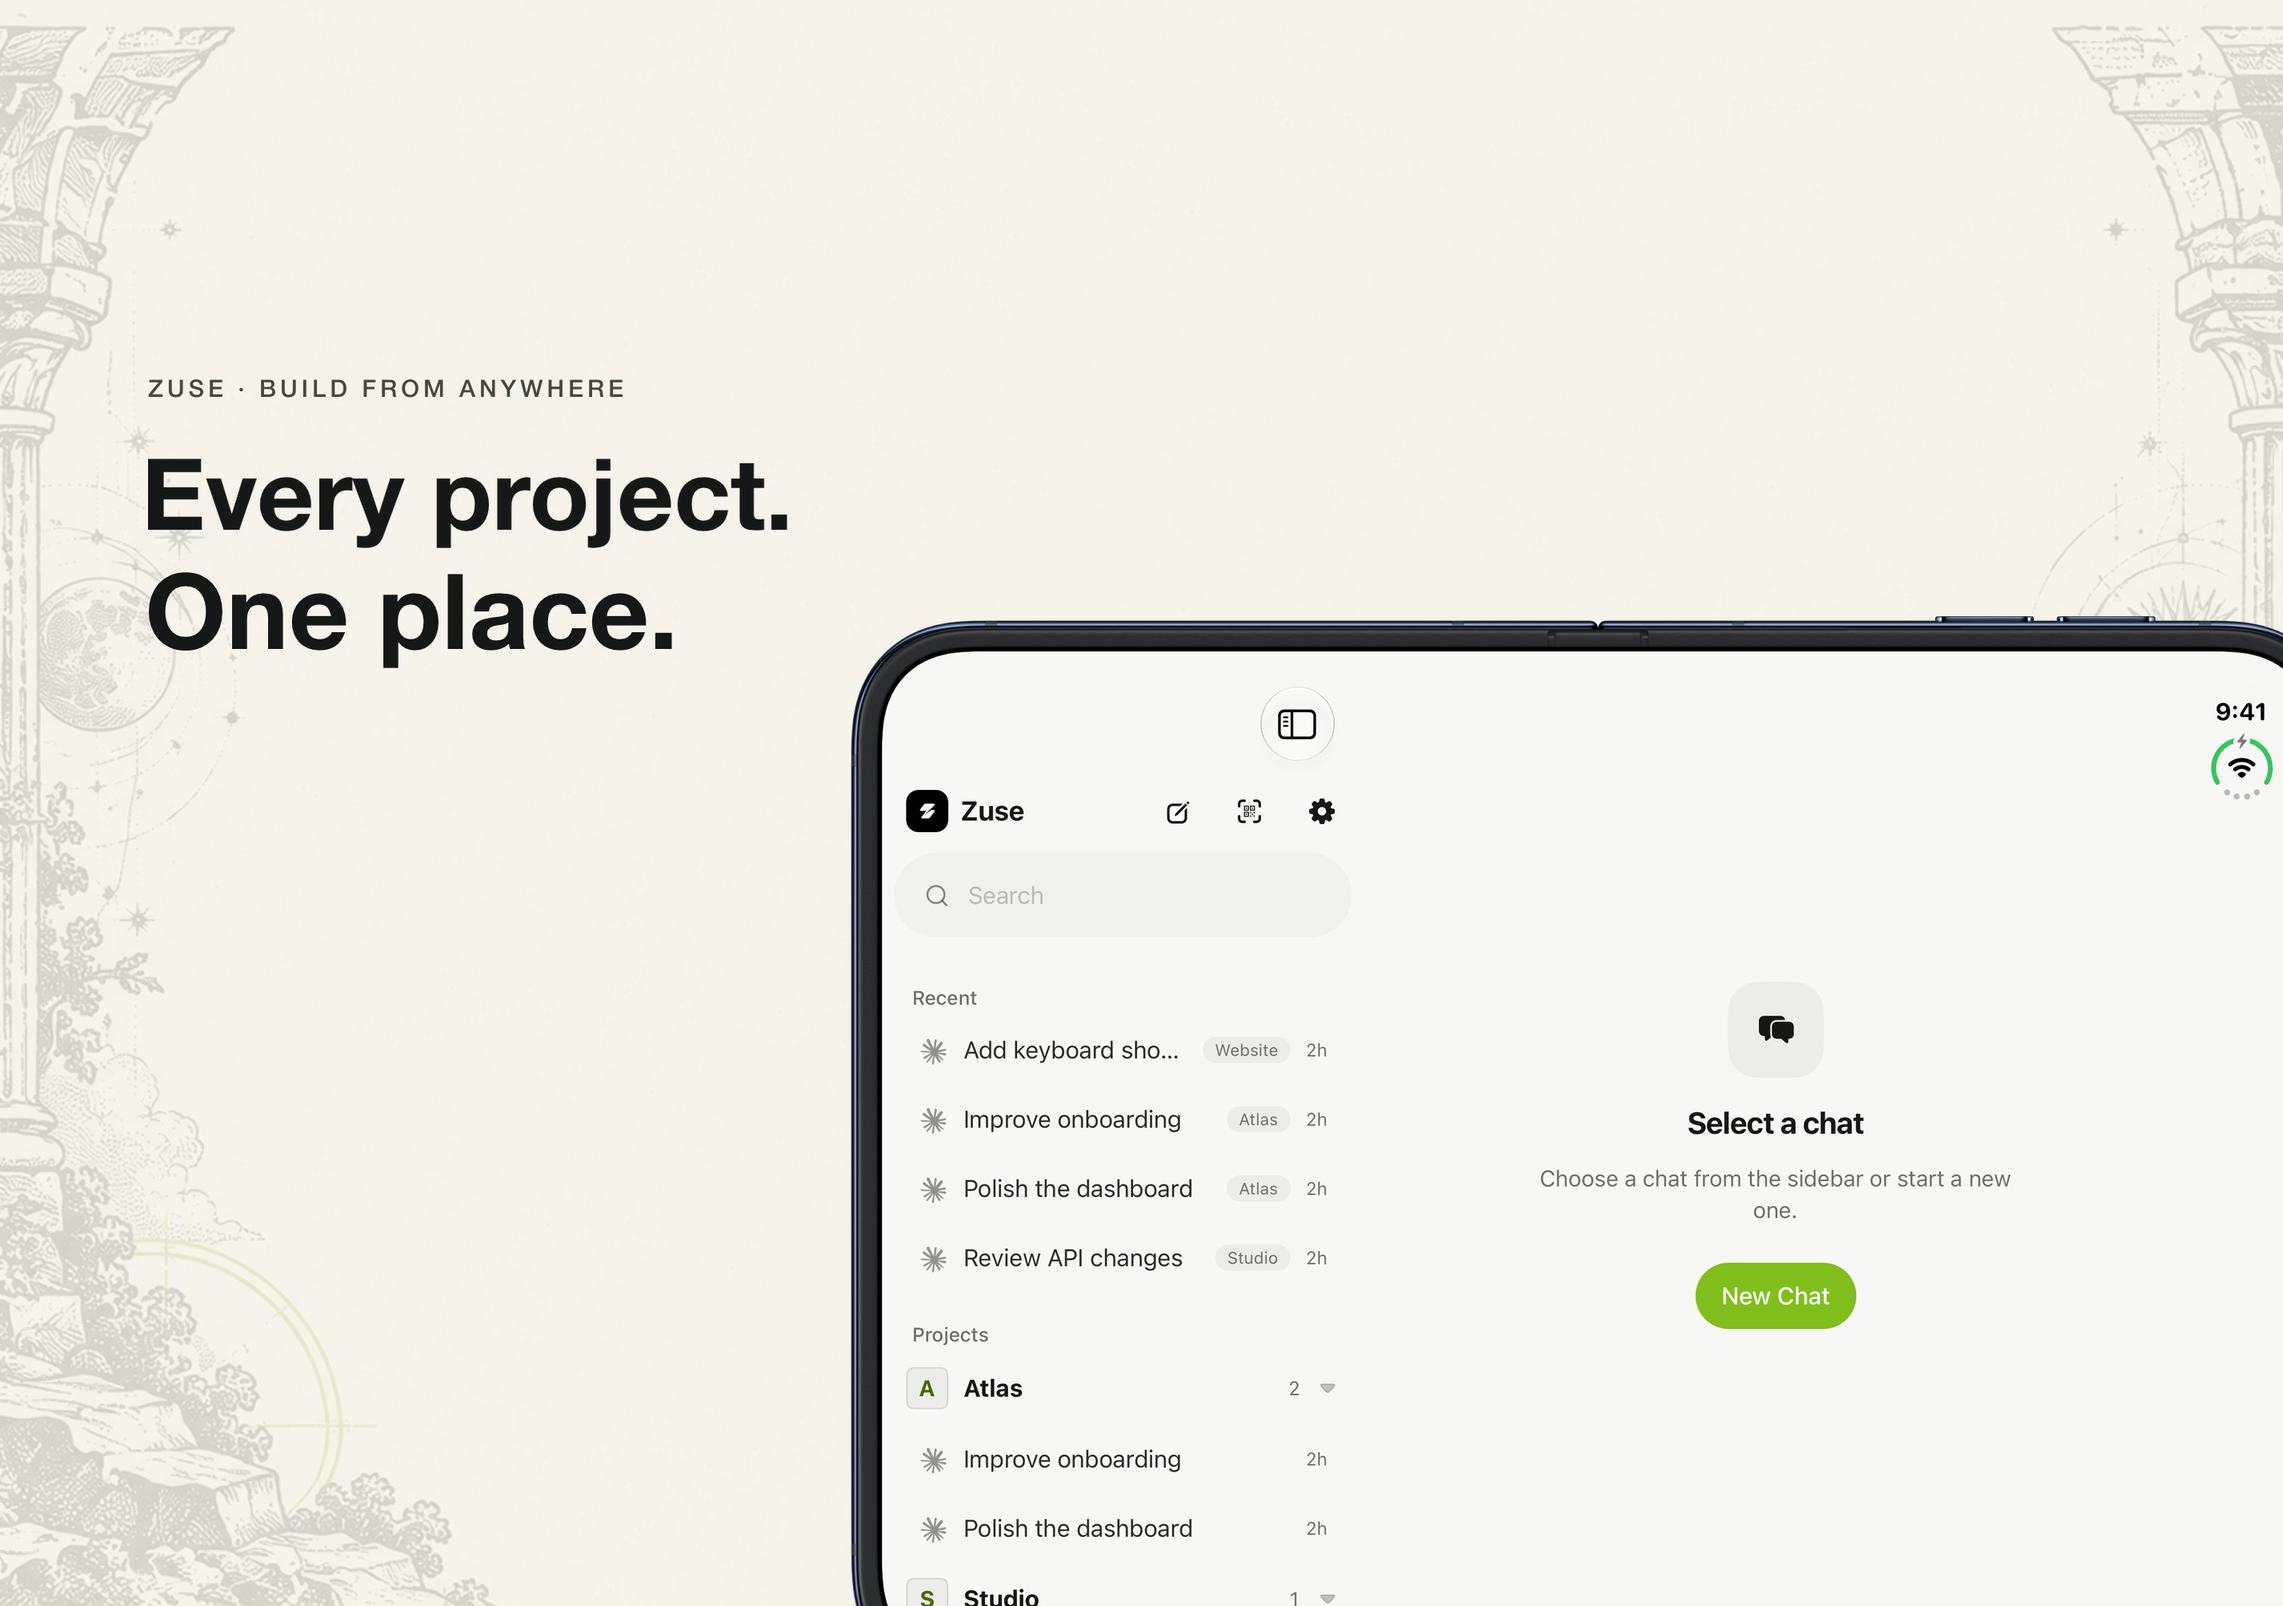
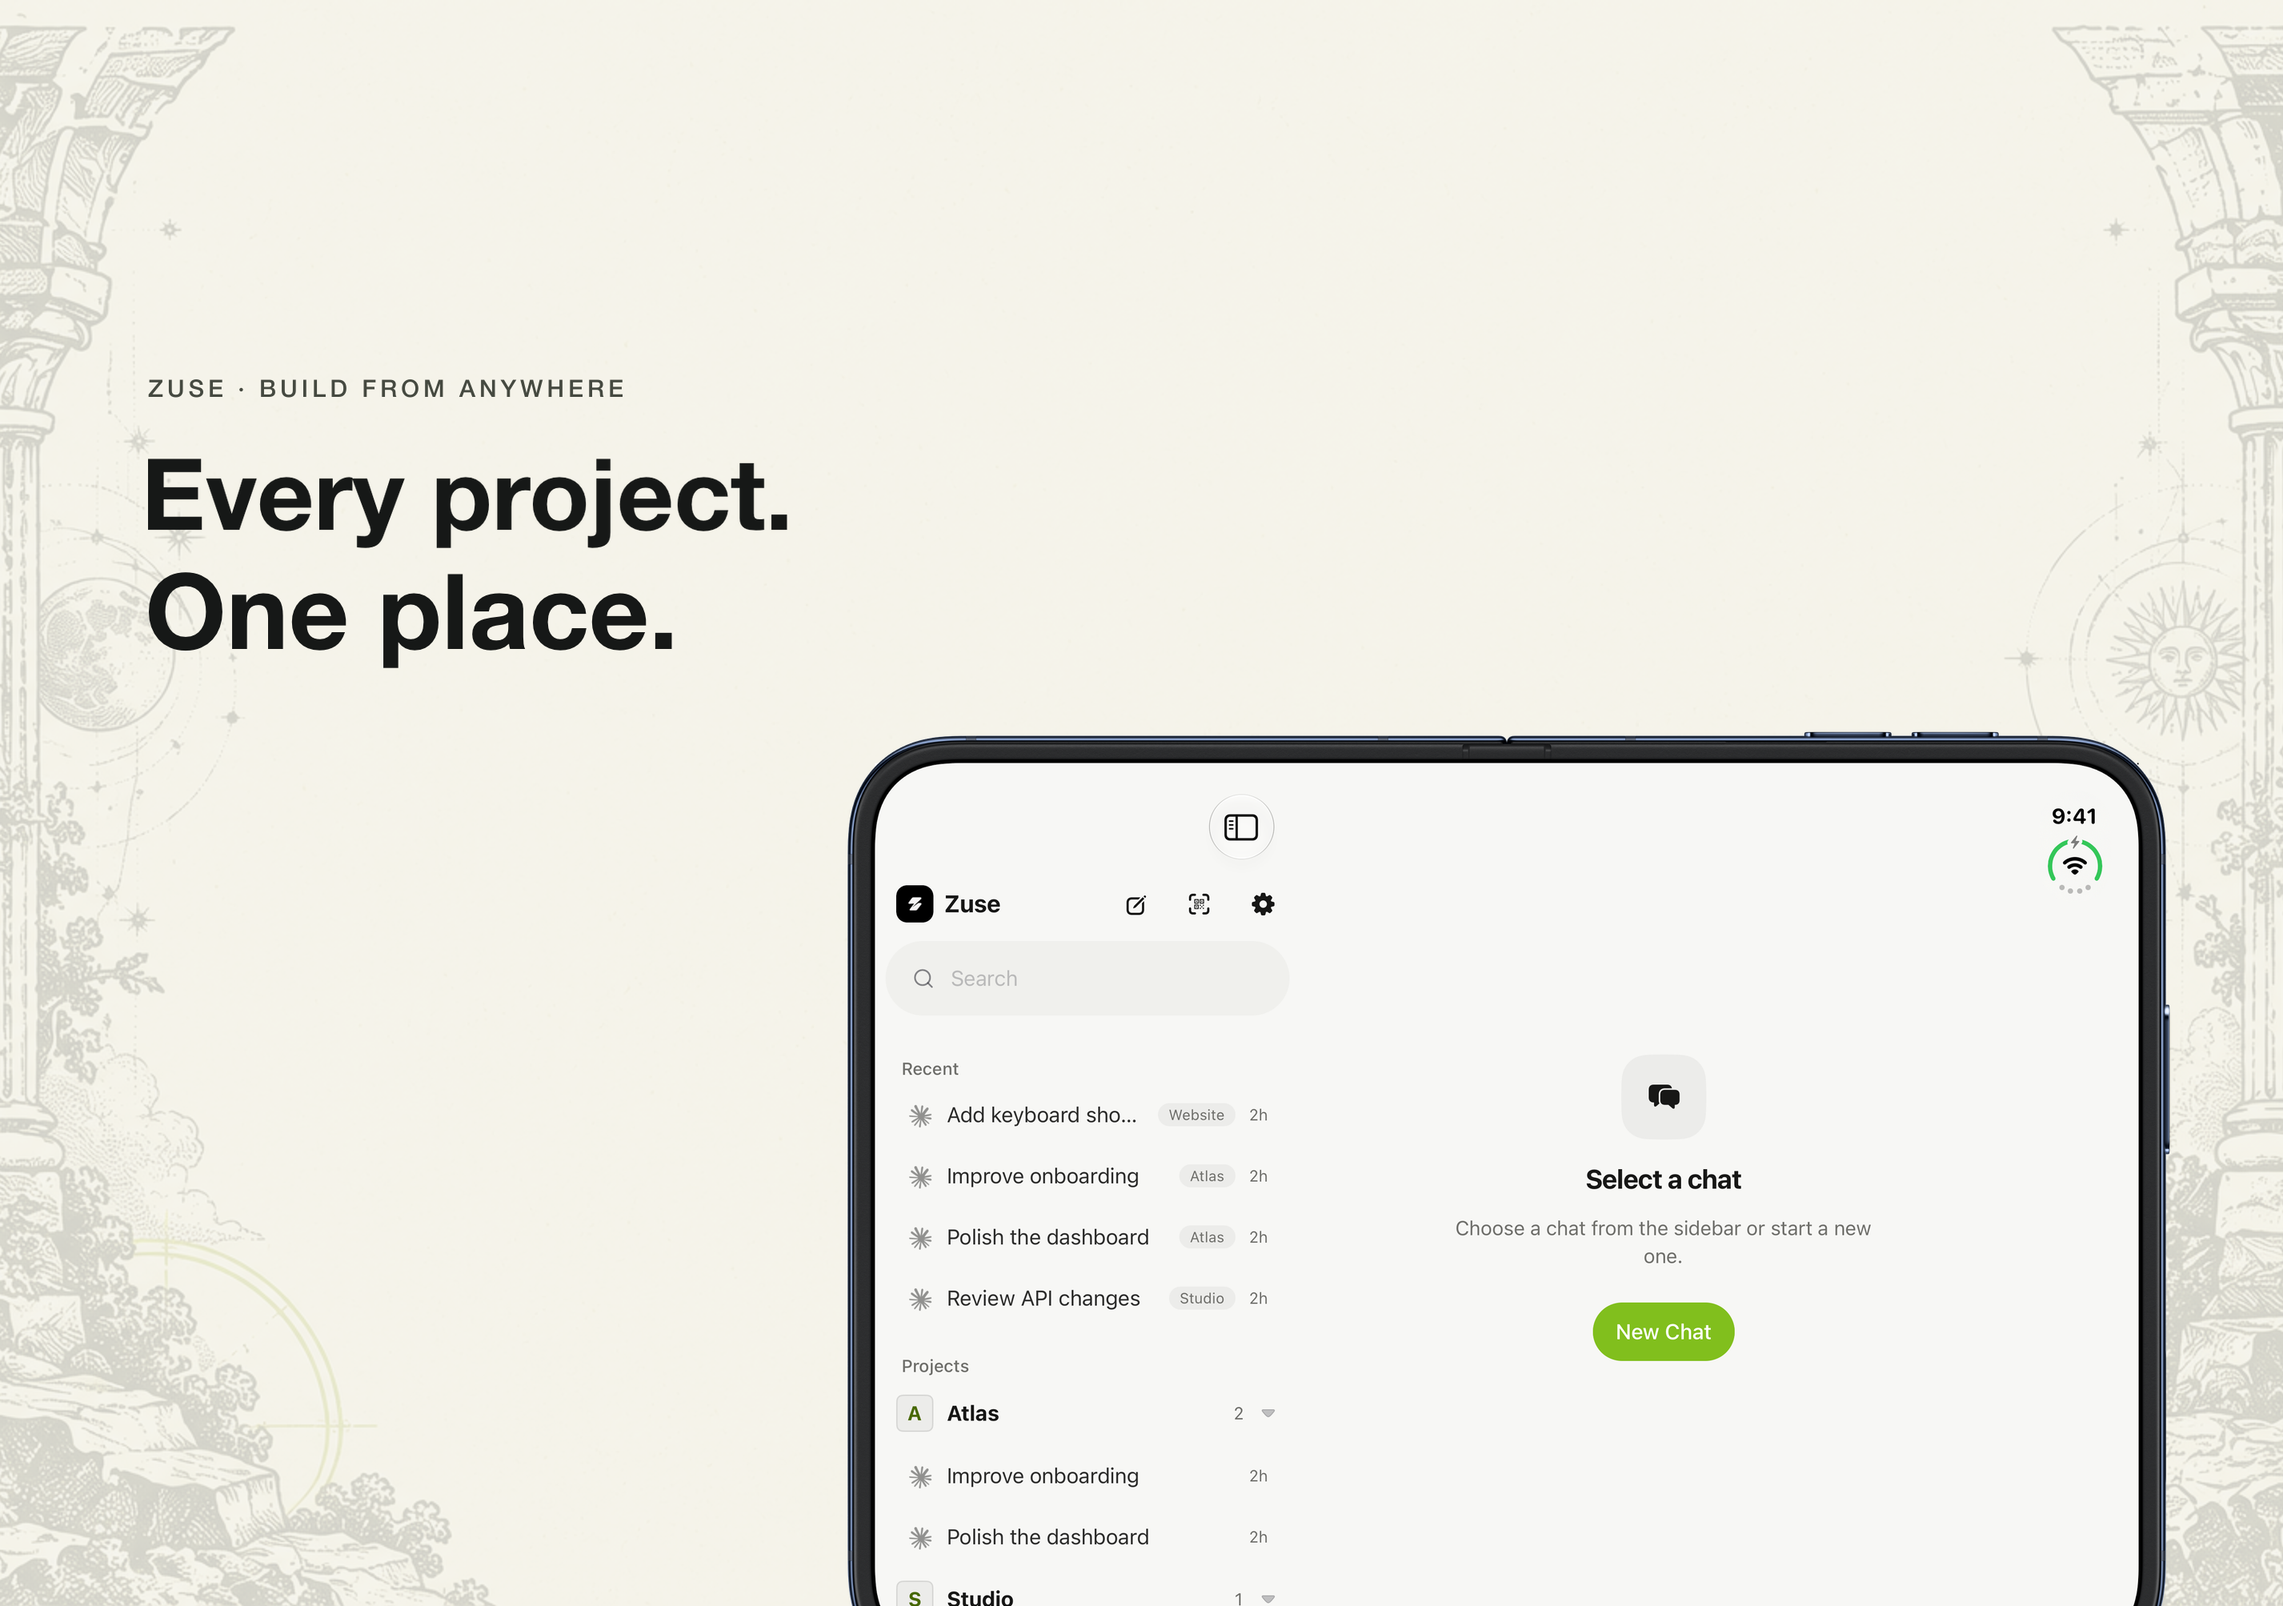
Keep store devices within the horizontal canvas bounds

diff --git a/internal-docs/mobile/store-assets-1.1.0.md b/internal-docs/mobile/store-assets-1.1.0.md
@@ -5,13 +5,13 @@ Verified against Apple documentation on 2026-10-24. All 30 delivery PNGs are ren
 ## Current production state
 
 - Completed: 24 device-framed screenshot cards and six header/search/universal masters. `apps/mobile/store-assets/1.1.0/delivery/manifest.json` records exact dimensions and bytes; all 30 are opaque PNGs.
-- The iPad project portrait uses a 108% width close-up, cropped at the sides and bottom. Other iPad and both Duo portrait devices use up to 90% of the canvas height, with 10% of the device extending below the canvas. Landscape and creative devices also extend 10% below the canvas. Smaller headlines, removed accent rules, and subdued illustration backgrounds make the app more prominent.
+- All devices stay inside the horizontal canvas bounds: portrait cards allow 96% width, landscape devices occupy at most 60% width starting at 36%, and creative devices are capped at 50% width around the 70% horizontal center. Approximately 10% of each device extends below the canvas. The renderer rejects horizontal overflow. Smaller headlines, removed accent rules, and subdued illustration backgrounds make the app more prominent.
 - Captures use the Expo app with isolated sample projects and official Apple device bezels. Generated illustration backgrounds are stored under `source/`. No private chats appear in the artwork.
 - Xcode 27.1 and the iOS 27.1 simulator runtime are installed. iPad and Duo simulators were opened for native captures. Both Duo displays have portrait and landscape coverage.
 - Fixed the Uniwind asset-registry startup failure, bounded-sheet padding, iOS rotation policy, and horizontal safe-area handling. The final review screen is included in the captures.
 - Mobile validation: 520 tests across 108 files, both TypeScript projects, and applicable Biome checks passed.
 - Production build 17 finished from source commit `a33fc7cba`, including review commit `01d03e501`; Apple reports build 17 VALID. Code-signature verification passed, with build number 17 and Xcode 27.1 in the signed archive. The release draft selects build 17. Apple rejected adding the app version to review because `usesNonExemptEncryption` is unanswered; the owner must confirm the declaration. This is not evidence of App Review approval or public release.
-- App Store Connect's public OpenAPI omitted Duo at this check; its live API explicitly supports `APP_IPHONE_DUO`. Eight revised iPad and ten revised Duo screenshots are selected in the draft. All ten Duo and six iPad images are COMPLETE; two revised iPad landscape images are still processing. Portrait cards lead each set; the Duo set includes both displays plus two inner-display landscape examples. All 30 files are also uploaded to the asset library. The new iPad header and search placements are active on the draft; all six creative masters are attached to a prepared review submission.
+- App Store Connect's public OpenAPI omitted Duo at this check; its live API explicitly supports `APP_IPHONE_DUO`. Eight revised iPad and ten revised Duo screenshots are selected in the draft. Processing is checked separately for each revised upload. Portrait cards lead each set; the Duo set includes both displays plus two inner-display landscape examples. All 30 files are also uploaded to the asset library. The new iPad header and search placements are active on the draft; all six creative masters are attached to a prepared review submission.
 
 ## Render commands
 
